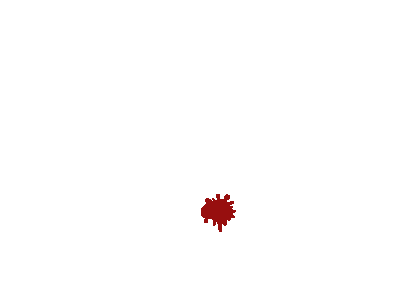
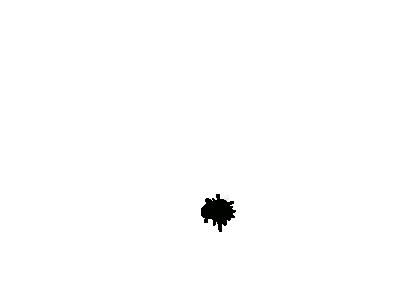
Ink Colors synced to Aspect, Aspect random colors added

Changed region(s): [[0.48, 0.63, 0.6, 0.78]]

diff --git a/web/scripts/handle_sprites.dart b/web/scripts/handle_sprites.dart
@@ -88,6 +88,16 @@ abstract class ReferenceColours {
         ..shirt_dark = "#797979"
         ..pants_light = "#494949"
         ..pants_dark = "#393939";
+
+    static AspectPalette Ink_Aspect = new AspectPalette()
+        ..aspect_light = '#EFEFEF'
+        ..aspect_dark = '#080808'
+        ..shoe_light = '#EFEFEF'
+        ..shoe_dark = '#080808'
+        ..cloak_light = '#EFEFEF'
+        ..cloak_dark = '#080808'
+        ..shirt_dark = '#080808'
+        ..pants_dark = '#080808';
 }
 
 abstract class Drawing {
@@ -1597,11 +1607,13 @@ abstract class Drawing {
         }
         if (!baby && player.godTier) {
             PaletteSwapCallback callback = aspectPalletSwap;
+            if (player.aspect == Aspects.INK) callback = inkPalletSwap;
             if (player.trickster) callback = candyPalletSwap;
             if (player.robot) callback = robotPalletSwap;
             drawWhateverWithPalleteSwapCallback(canvas, playerToCowl(player), player, callback);
         }
 
+        if (player.aspect == Aspects.INK) inkPalletSwap(canvas,player);
         if (player.robot == true) {
             roboSkin(canvas); //, player);
         } else if (player.trickster == true) {
@@ -1763,7 +1775,7 @@ abstract class Drawing {
         if (player.sbahj) {
             sbahjifier(canvas);
         }
-        if (player.isTroll) {
+        if (player.isTroll || player.aspect == Aspects.INK) {
             swapColors(canvas, ReferenceColours.HAIR, new Colour.fromStyleString(player.hairColor));
             swapColors(canvas, ReferenceColours.HAIR_ACCESSORY, new Colour.fromStyleString(player.bloodColor));
         } else {
@@ -1782,7 +1794,7 @@ abstract class Drawing {
         if (player.sbahj) {
             sbahjifier(canvas);
         }
-        if (player.isTroll) {
+        if (player.isTroll || player.aspect == Aspects.INK) {
             swapColors(canvas, ReferenceColours.HAIR, new Colour.fromStyleString(player.hairColor));
             swapColors(canvas, ReferenceColours.HAIR_ACCESSORY, new Colour.fromStyleString(player.bloodColor));
         } else {
@@ -1902,10 +1914,23 @@ abstract class Drawing {
         if (player.sbahj) {
             sbahjifier(canvas);
         }
-        aspectPalletSwap(canvas, player);
+        if (player.aspect == Aspects.INK) inkPalletSwap(canvas, player);
+         else aspectPalletSwap(canvas, player);
         //aspectSymbol(canvas, player);
     }
 
+    static void inkSprite(CanvasElement canvas, Player player) {
+        String imageString = playerToRegularBody(player);
+        CanvasRenderingContext2D ctx = canvas.getContext('2d');
+        addImageTag(imageString);
+        ImageElement img = imageSelector(imageString);
+        ctx.drawImage(img, 0, 0);
+        if (player.sbahj) {
+            sbahjifier(canvas);
+        }
+        inkPalletSwap(canvas, player);
+        //aspectSymbol(canvas, player);
+    }
 
     static void dreamSprite(CanvasElement canvas, Player player) {
         String imageString = playerToDreamBody(player);
@@ -1934,7 +1959,8 @@ abstract class Drawing {
         if (bardQuest && player.class_name == SBURBClassManager.BARD) {
             drawWhatever(canvas, "/Bodies/cod.png");
         }
-        aspectPalletSwap(canvas, player);
+        if (player.aspect == Aspects.INK) inkPalletSwap(canvas, player);
+         else   aspectPalletSwap(canvas, player);
         if (player.sbahj) {
             sbahjifier(canvas);
         }
@@ -1997,6 +2023,29 @@ abstract class Drawing {
         swapPalette(canvas, ReferenceColours.SPRITE_PALETTE, p);
     }
 
+    static void inkPalletSwap(CanvasElement canvas, Player player) {
+      int red = ((player.leftHorn ~/ 10) * 29)+16;
+      int blue = ((player.leftHorn.remainder(10)) * 20)+16;
+      int green = (player.rightHorn * 3)+13;
+      int darkred = ((player.leftHorn ~/ 10) * 29)-14;
+      int darkblue = ((player.leftHorn.remainder(10)) * 20)-14;
+      int darkgreen = (player.rightHorn * 3)-17;
+      if (darkred < 16) darkred = 255;
+      if (darkblue < 16) darkblue = 255;
+      if (darkgreen < 16) darkgreen = 255;
+      String inkColor = "#${red.toRadixString(16)}${green.toRadixString(16)}${blue.toRadixString(16)}";
+      String inkColorPants = "#${(red + 23).toRadixString(16)}${(green + 23).toRadixString(16)}${(blue+23).toRadixString(16)}";
+      String inkColorCloak = "#${darkred.toRadixString(16)}${darkgreen.toRadixString(16)}${darkblue.toRadixString(16)}";
+      Palette colors = new AspectPalette()
+            ..shirt_light = inkColor
+            ..accent = inkColor
+            ..cloak_mid = inkColorCloak
+            ..pants_light = inkColorPants;
+        Palette dream = ReferenceColours.Ink_Aspect;
+        Palette ink = new Palette.combined(<Palette>[dream, colors]);
+
+        swapPalette(canvas, ReferenceColours.SPRITE_PALETTE, ink);
+    }
 
     static void candyPalletSwap(CanvasElement canvas, Player player) {
         //not all browsers do png gama info correctly. Chrome does, firefox does not, mostly.

diff --git a/web/scripts/GameEntities/ClasspectStuff/Aspects/Ink.dart b/web/scripts/GameEntities/ClasspectStuff/Aspects/Ink.dart
@@ -18,7 +18,7 @@ class Ink extends Aspect {
 
     @override
     AspectPalette palette = new AspectPalette()
-        ..accent = "#993300"
+        ..accent = '#080808'
         ..aspect_light = '#BA1016'
         ..aspect_dark = '#820B0F'
         ..shoe_light = '#381B76'
@@ -62,10 +62,8 @@ class Ink extends Aspect {
     @override
     void initializeItems() {
         items = new WeightedList<Item>()
-        ..add(new Item("Mystical Vial of Blood",<ItemTrait>[ItemTraitFactory.GLASS,ItemTraitFactory.CALMING, ItemTraitFactory.ASPECTAL, ItemTraitFactory.HEALING],shogunDesc: "Vial of Not-ABs Oil"))
-            //shitty fanfic, you'll always be in my blood pusher.
+        ..add(new Item("Inkwell",<ItemTrait>[ItemTraitFactory.GLASS,ItemTraitFactory.CALMING, ItemTraitFactory.ASPECTAL, ItemTraitFactory.FEATHER],shogunDesc: "Vial of Not-ABs Oil"))
             ..add(new Item("Bananaphone",<ItemTrait>[ItemTraitFactory.EDIBLE,ItemTraitFactory.CALMING, ItemTraitFactory.ASPECTAL, ItemTraitFactory.FUNNY], abDesc: "Really? Yet another in-joke nobody will ever get? Good work, 'oh mighty creator'. ",shogunDesc: "Yellow Respect Device"))
-
             ..add(new Item("Friendship Bracelet",<ItemTrait>[ItemTraitFactory.CLOTH,ItemTraitFactory.CALMING, ItemTraitFactory.ASPECTAL, ItemTraitFactory.HEALING, ItemTraitFactory.CHAIN],shogunDesc: "Soul Binding Wrist Shackle"))
         ..add(new Item("Bonding Manacles",<ItemTrait>[ItemTraitFactory.METAL,ItemTraitFactory.RESTRAINING, ItemTraitFactory.ASPECTAL, ItemTraitFactory.HEALING,ItemTraitFactory.CHAIN, ItemTraitFactory.UNCOMFORTABLE],shogunDesc: "Handcuff with one cuff full of cigarettes"))
         ..add(new Item("Friendship Stairs",<ItemTrait>[ItemTraitFactory.WOOD,ItemTraitFactory.IRONICFAKECOOL, ItemTraitFactory.CALMING, ItemTraitFactory.HEALING, ItemTraitFactory.ASPECTAL, ItemTraitFactory.LEGENDARY],shogunDesc: "Bloodstained Stairs",abDesc:"You push your friends down these, dunkass.")); //john wanted to push karkat down these.

diff --git a/web/scripts/GameEntities/player_functions.dart b/web/scripts/GameEntities/player_functions.dart
@@ -126,7 +126,7 @@ Player randomPlayerNoDerived(Session session, SBURBClass c, Aspect a) {
 
     if (p.isSquidNow == true) {
         p.hair = session.rand.nextIntRange(
-            76, 79);
+            76, 80);
     }
     else {
         p.hair = session.rand.nextIntRange(
@@ -134,7 +134,7 @@ Player randomPlayerNoDerived(Session session, SBURBClass c, Aspect a) {
     } //hair color in decide troll
     p.leftHorn = session.rand.nextIntRange(1, Player.maxHornNumber);
     p.rightHorn = p.leftHorn;
-    if (session.rand.nextDouble() > .7) { //preference for symmetry
+    if (session.rand.nextDouble() > .7 || p.aspect == Aspects.INK) { //preference for symmetry
         p.rightHorn = session.rand.nextIntRange(1, Player.maxHornNumber);
     }
     p.initializeStats();
@@ -170,7 +170,7 @@ Player randomPlayerWithClaspect(Session session, SBURBClass c, Aspect a, [Moon m
 
     if (p.isSquidNow == true) {
         p.hair = session.rand.nextIntRange(
-            76, 79);
+            76, 80);
         if (p.aspect == Aspects.BLOOD) {
             p.aspect = Aspects.INK;
         }
@@ -182,10 +182,10 @@ Player randomPlayerWithClaspect(Session session, SBURBClass c, Aspect a, [Moon m
             p.aspect = Aspects.BLOOD;
         }
        } //hair color in decide troll
-    p.leftHorn = session.rand.nextIntRange(1, 46);
+    p.leftHorn = session.rand.nextIntRange(1, Player.maxHornNumber);
     p.rightHorn = p.leftHorn;
-    if (session.rand.nextDouble() > .7) { //preference for symmetry
-        p.rightHorn = session.rand.nextIntRange(1, 46);
+    if (session.rand.nextDouble() > .7 || p.aspect == Aspects.INK) { //preference for symmetry
+        p.rightHorn = session.rand.nextIntRange(1, Player.maxHornNumber);
     }
 
     return p;

diff --git a/web/scripts/OCDataStringHandler.dart b/web/scripts/OCDataStringHandler.dart
@@ -385,7 +385,18 @@ dynamic dataBytesAndStringsToPlayer(Session session, String charString, List<Str
   player.leftHorn = charString.codeUnitAt(8);
   player.rightHorn = charString.codeUnitAt(9);
   player.hair = charString.codeUnitAt(10);
-  if(player.hair >=76 && player.hair <= 250) player.isSquidNow = true;
-  ;
+  if(player.hair >=76 && player.hair <= 250) {
+    player.isSquidNow = true;
+    String squidInk = "#${player.aspect.palette.accent.toHexString()}";
+    player.bloodColor = squidInk;
+    if (player.aspect == Aspects.INK) {
+      int red = ((player.leftHorn ~/ 10) * 29)+16;
+      int blue = ((player.leftHorn.remainder(10)) * 20)+16;
+      int green = (player.rightHorn * 3)+13;
+      String inkColor = "#${red.toRadixString(16)}${green.toRadixString(16)}${blue.toRadixString(16)}";
+      player.bloodColor = inkColor;
+    }
+    player.victimBlood = null;
+  }
   return player;
 }

diff --git a/web/scripts/v2.0/char_creator_helper.dart b/web/scripts/v2.0/char_creator_helper.dart
@@ -744,7 +744,7 @@ class CharacterCreatorHelper {
                 player.isSquidNow = true;
                 if (player.hair == 256 || player.hair < 76) {
                     player.hair = player.rand.nextIntRange(
-                        76, 79);
+                        76, 80);
                 }
                 if (player.aspect == Aspects.BLOOD) {
                     player.aspect = Aspects.INK;
@@ -932,7 +932,7 @@ class CharacterCreatorHelper {
         String html =
             "<select id = 'hairTypeID${player.id}' name='hair${player.id}'>";
         if (player.isSquidNow) {
-            for (int i = 76; i <= 79; i++) {
+            for (int i = 76; i <= 80; i++) {
                 if (player.hair == i) {
                     html +=
                     '<option  selected = "selected" value="$i">$i</option>';

diff --git a/web/scripts/random_tables.dart b/web/scripts/random_tables.dart
@@ -512,6 +512,7 @@ List<Colour> tricksterColors = <Colour>[
 
 List<String> bloodColors = <String>["#A10000", "#a25203", "#a1a100", "#658200", "#416600", "#078446", "#008282", "#004182", "#0021cb", "#631db4", "#610061", "#99004d"];
 
+List<String> inkColors = <String>["#993300", "#3399ff", "#003300", "#9630BF", "#ff3399", "#ffcc66", "#003300", "#494132", "#ff9933", "#3da35a", "#9900cc", "#00ff00","#ff0000","#000066"];
 
 List<String> prefixes = <String>["owo","8=D", ">->", "//", "tumut", ")", "><>", "(", "\$", "?", "=begin", "=end"]
     ..addAll(<String>["<3", "<3<", "<>", "c3<", "{", "}", "<String>[", "]", "'", ".", ",", "~", "!", "~", "^", "&", "#", "@", "%", "*"]);

diff --git a/web/scripts/GameEntities/player.dart b/web/scripts/GameEntities/player.dart
@@ -1639,10 +1639,11 @@ class Player extends GameEntity{
         }
 
         if (this.session.getSessionType() == "Inkling") {
-          this.hairColor = "#610061";
           this.isSquidNow = true;
           this.hairColor = "#ffffff";
-          return;
+          String squidInk = "#" + this.aspect.palette.accent.toHexString();
+          this.bloodColor = squidInk;
+            return;
         }
 
         if (this.session.getSessionType() == "Troll" || (this.session.getSessionType() == "Mixed" && rand.nextDouble() > 0.5)) {
